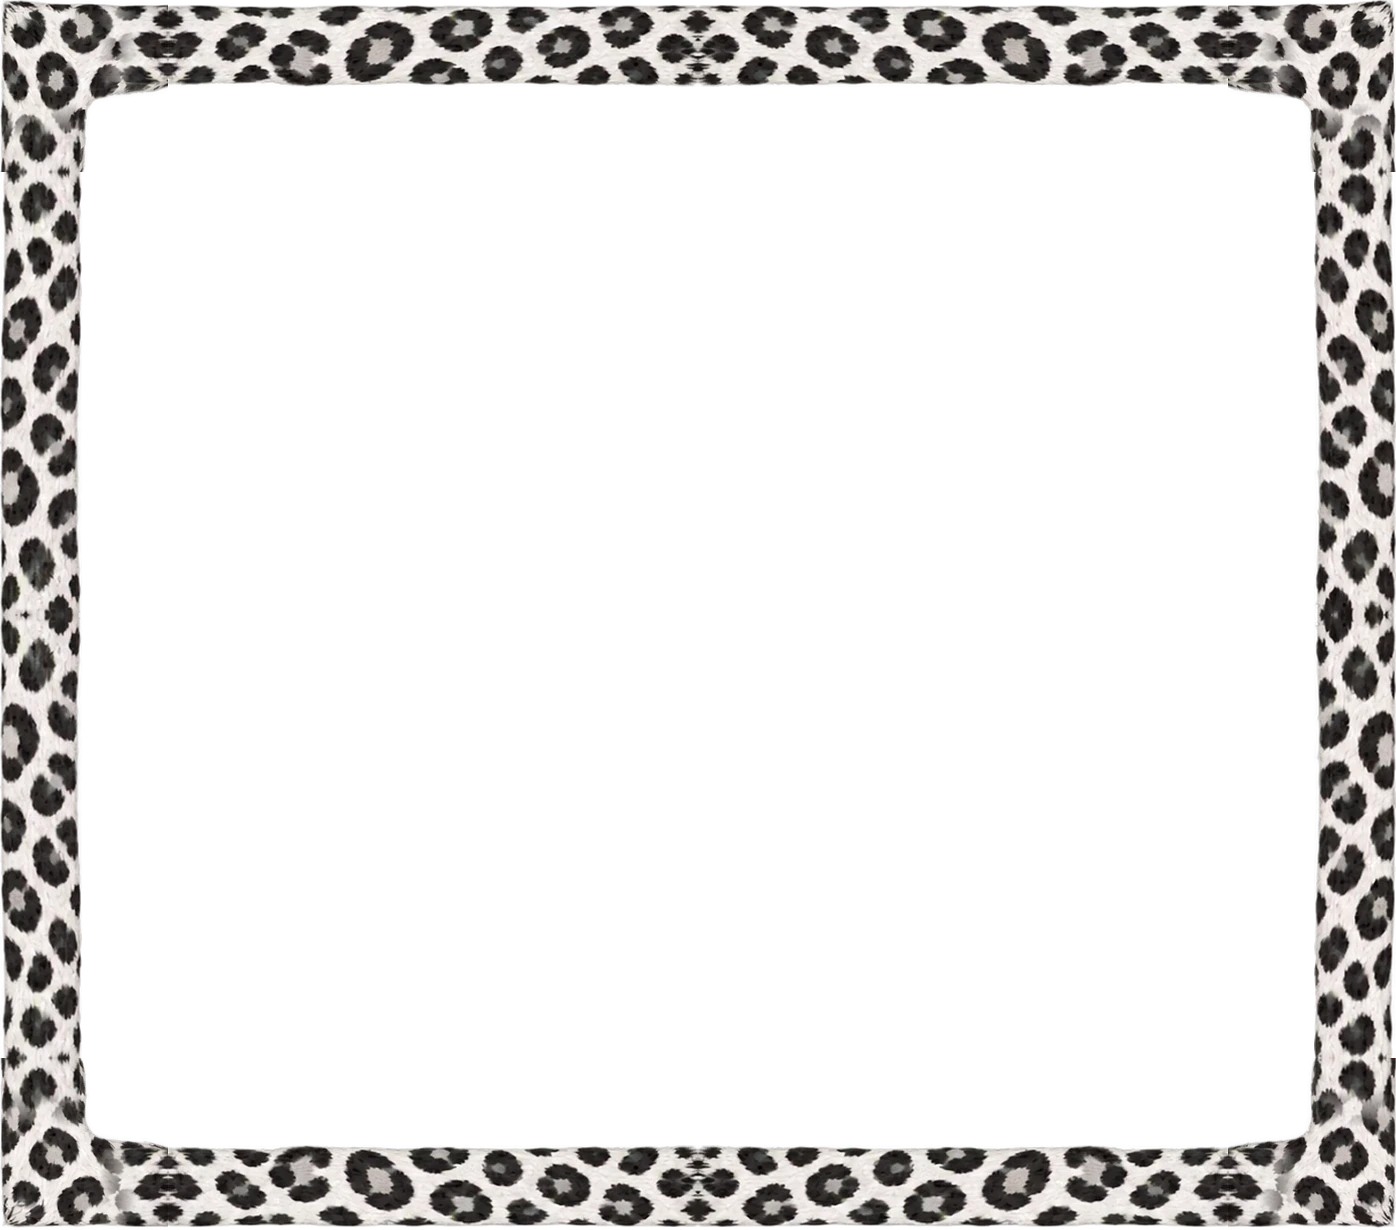
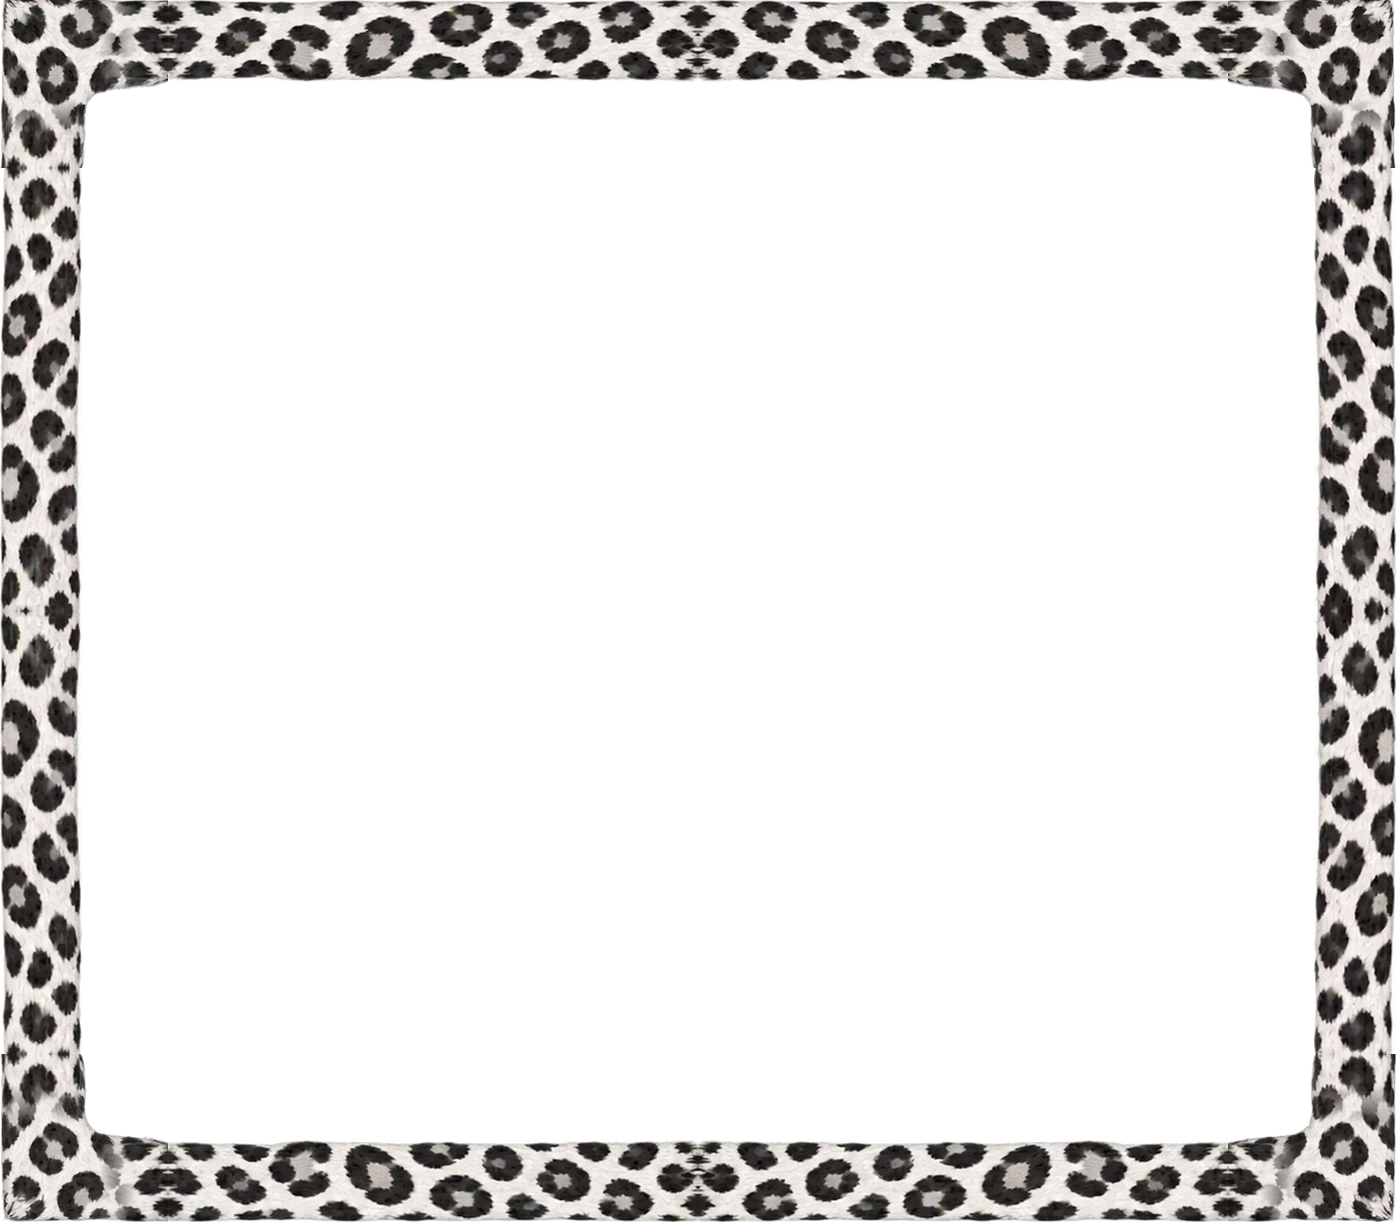
Frame sits flush on all four sides
The arms in the supplied art sit at different insets from their outer edges —
top 5px, bottom 3, sides 0 — and the bars inherited those offsets, so each side
showed a different sliver of background, the top worst. Each corner is now
shifted until both its arms touch the outer edges, the bars are placed at zero
offset to match, and all four corners are cropped to one SQUARE box so a single
slice value renders the band the same thickness on every side (it was 82/172
vertically against 82/168 horizontally).

Measured on a bare page: inset is 0-1px on all four edges, where the top was
previously ~9 device px, and the band is a consistent 75-77px with no interior
gap over 2px. The builder is rewritten rather than patched further, with the
whole sequence and the reason for each step documented at the top.

Changed region(s): [[0.0, 0.6219, 1.0, 1.0], [0.0, 0.0, 1.0, 0.4043]]

diff --git a/mockups/singlepage.html b/mockups/singlepage.html
@@ -36,7 +36,7 @@
      the corner/bar joints. `round` is required — stretch ovals the spots. */
   .frame{position:fixed;inset:0;z-index:90;pointer-events:none;
     border-style:solid;border-width:var(--fw);
-    border-image:url("frame-leopard.webp") 172 168 round}
+    border-image:url("frame-leopard.webp") 168 round}
 
   /* ---------- the shell ---------- */
   .page{position:fixed;inset:0;z-index:10;padding:var(--pad);display:flex;min-height:0}

diff --git a/HANDOFF.md b/HANDOFF.md
@@ -57,8 +57,8 @@ one at a time by **generated posters** (`public/img/card-<game>.jpg`, 3:4,
 cover-fit into the card box with no bottom fade); Devotion is the first.
 
 **The border is a 9-slice, not a background.** `mockups/frame-leopard.webp`
-(1396x1230, WebP+alpha, 212KB) is the leopard frame, rebuilt from the supplied
-sheet. Use it as `border-image: url(...) 172 168 round` on a `position:fixed;
+(1396x1222, WebP+alpha, 206KB) is the leopard frame, rebuilt from the supplied
+sheet. Use it as `border-image: url(...) 168 round` on a `position:fixed;
 inset:0; pointer-events:none` overlay, with `border-width` setting the
 thickness (visible fur is about half of it). **`round` is required** — the
 default `stretch` ovals the spots. One asset covers every viewport and aspect
@@ -90,6 +90,13 @@ other is a few px shorter — they are trimmed independently, and the taper does
 not end at the same place — it cannot fill its edge region, and every tile
 leaves a transparent strip down that side. Equalise each pair before
 mirror-doubling.
+
+And a fourth: **every arm must touch its outer edge, and the corner box must be
+square.** The supplied arms sit at different insets (top 5px, bottom 3, sides
+0), so each edge showed a different sliver of background — the top noticeably
+more than the left. Each corner is shifted until both its arms are flush, the
+bars are placed at zero offset to match, and all four corners are cropped to one
+square box so a single slice value renders the band equally thick on every side.
 
 Check by measuring, and **measure all four edges**: the left edge was clean
 while the right was striped, and only the right was reported. Measure on a bare
